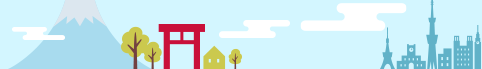
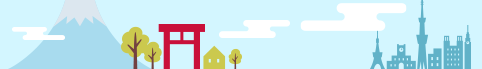
refs #UMA-353 背景指定する位置を変更

Changed region(s): [[0.7469, 0.0, 1.0, 1.0]]

diff --git a/pycon/static/less/site.less b/pycon/static/less/site.less
@@ -383,17 +383,12 @@ aside {
 
 .page-head {
   padding: 10px 0 20px 0;
-  position: relative;
-  background-color: @blueSky;
   min-height: 55px;
-  .skyline {
-    background: url('../img/pagehead-bkg.png') no-repeat;
-    width: 500px;
-    height: 70px;
-    position: absolute;
-    left: 50%;
-    bottom: 0;
-  }
+  background-color: @blueSky;
+  background-image: url('../img/pagehead-bkg.png');
+  background-repeat: no-repeat;
+  background-position: right bottom;
+
   h1 {
     text-transform:uppercase;
     font-size: @baseFontSize + 18;

diff --git a/pycon/templates/site_base.html b/pycon/templates/site_base.html
@@ -97,7 +97,6 @@
                 <div class="container">
                     <h1>{% block page_title %}{% endblock %}</h1>
                     {% block breadcrumbs %}{% endblock %}
-                    <div class="skyline"></div>
                 </div>
             </div>
             <div class="page-content">
